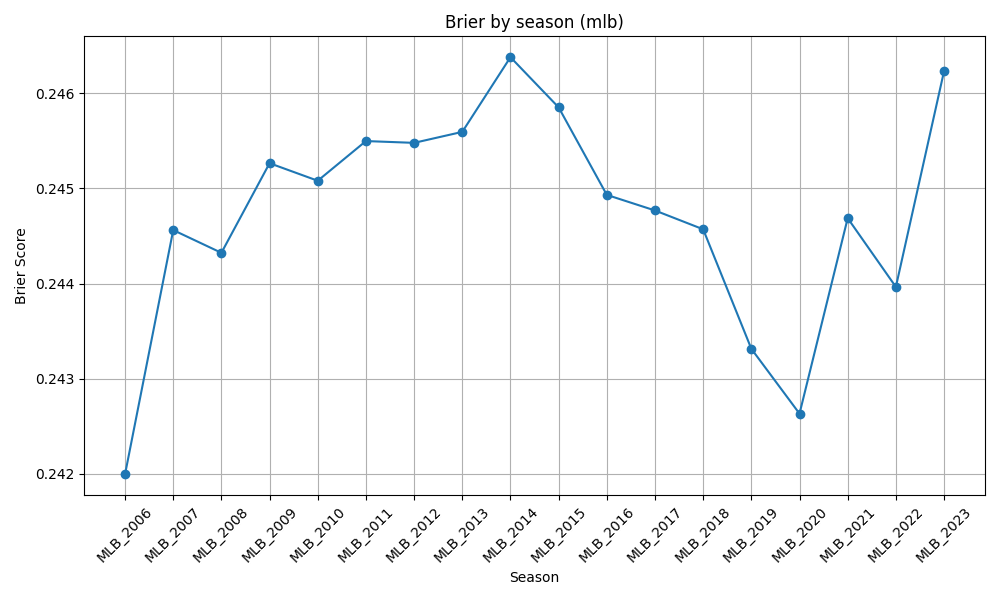
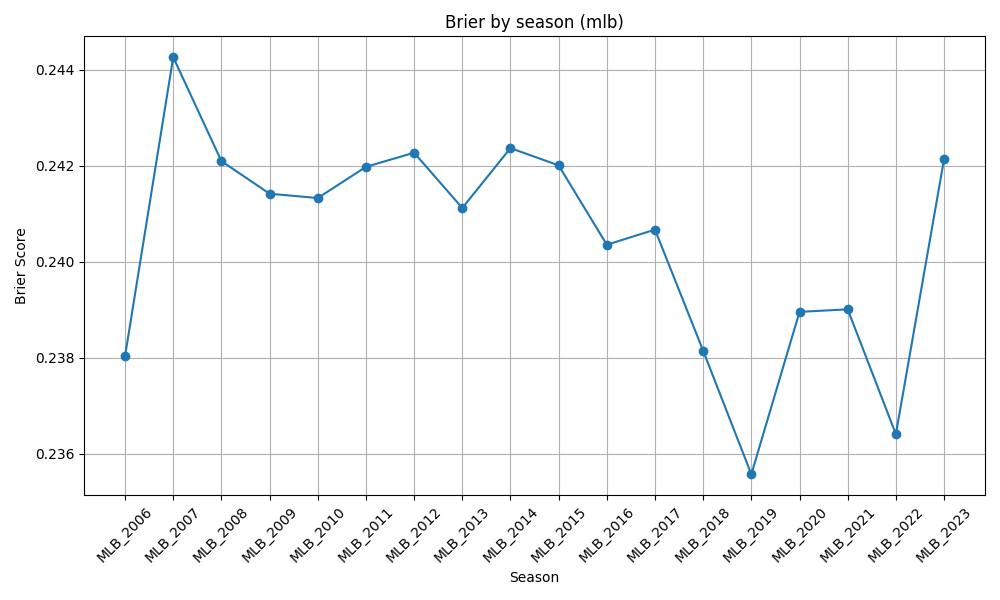
updated seasonal brier graphs

diff --git a/src/analysis/seasonal_brier.py b/src/analysis/seasonal_brier.py
@@ -4,7 +4,7 @@ from sklearn.metrics import brier_score_loss
 
 
 # calculates brier score for entirety of league by season
-league = "mlb"
+league = "nba"
 df = pd.read_csv(f'processed_data/{league}_espn_combined.csv')
 
 season_groups = df.groupby('tournament')
